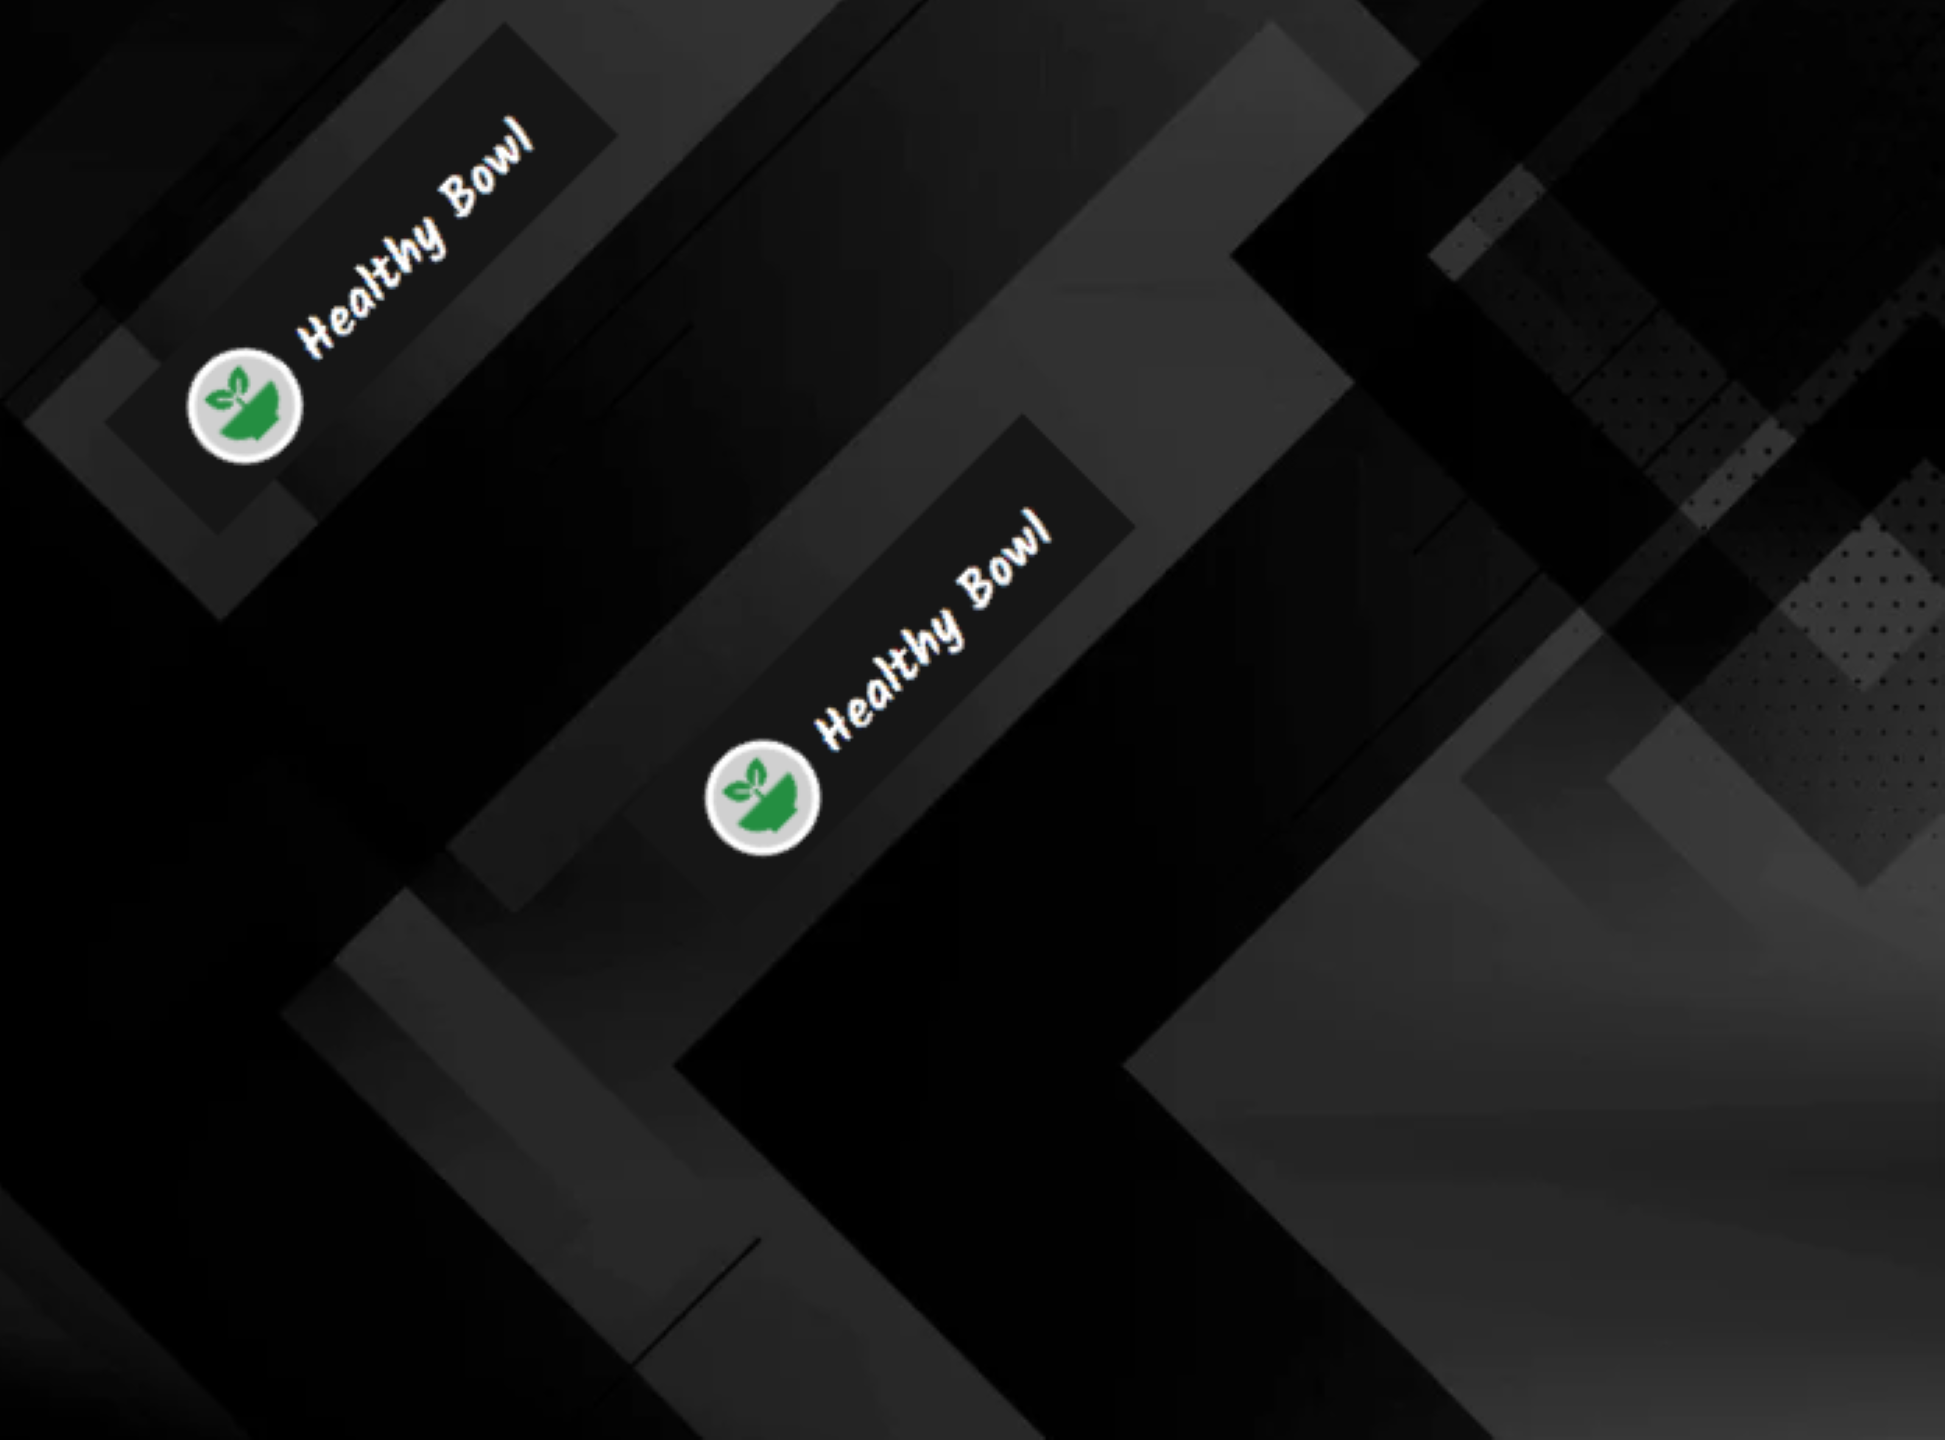
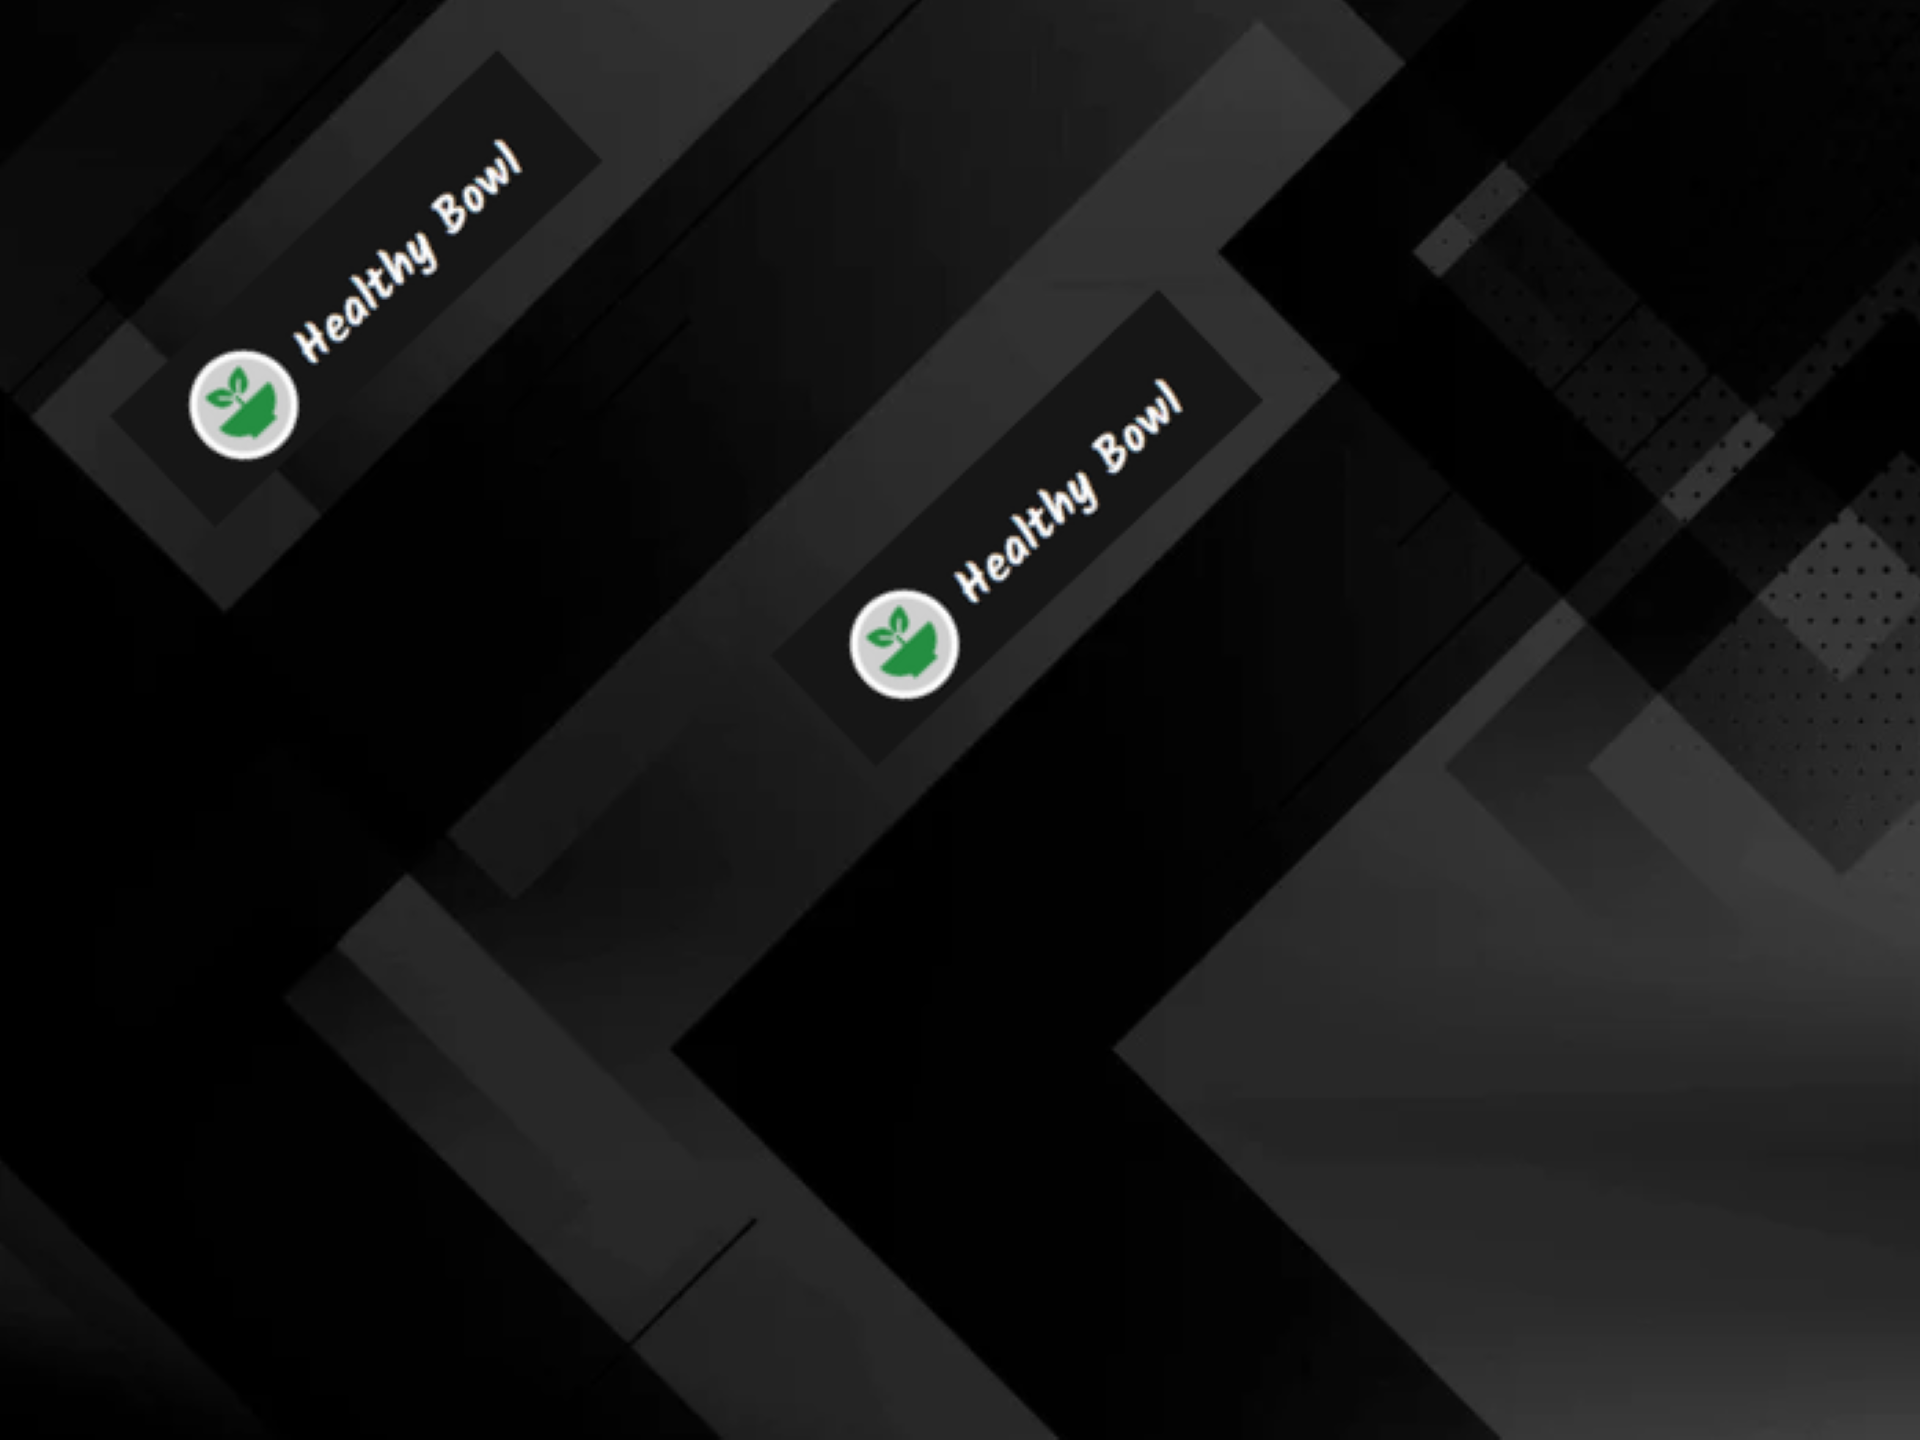
Sign in page 90% complete

diff --git a/login.css b/login.css
@@ -3,11 +3,7 @@
     padding: 0px;
 }
 body{
-    background: url(./images/login\ page\ background.png);
-    background-attachment: fixed;
-    width: 1920px;
-    height: 1440px;
-    background-repeat: no-repeat;
+    background: url(./images/login\ page\ background2.png);
 }
 .main{
     padding: 10%;
@@ -20,7 +16,7 @@ body{
     padding: 10%;
     background: black;
     opacity: 50%;
-    border: 1px solid black;
+    border: 2px solid white;
     border-radius: 20px;
     margin-left: -2.5vw;
 }
@@ -33,9 +29,24 @@ body{
     text-decoration: none;
     font-size: 2vw;
     font-family: 'Times New Roman', Times, serif;
+    transition: border-bottom-width 1s;
     color: white;
     padding-bottom: 5px;
 }
+.refrence a:hover{
+    animation: slideIn 1s forwards;
+    border-bottom: 2px solid blueviolet;
+}
+@keyframes slideIn {
+    0%{
+        width: 0px;
+    }
+    100%{
+        width: 100px;
+    }
+    
+}
+
 .input{
     margin-top: 20px;
     padding: 5px;
@@ -86,10 +97,18 @@ body{
 .btn button{
     height: 40px;
     width: 12vw;
+    border: blueviolet;
     border-radius: 20px;
     font-family: 'Times New Roman', Times, serif;
+    background-color: blueviolet;
+    color: white;
     font-size: 1.5vw;
     font-weight: bold;
+}
+.btn button:hover{
+    height: 45px;
+    width: 13vw;
+    transition: 0.2 ease;
 }
 .end{
     display: flex;
